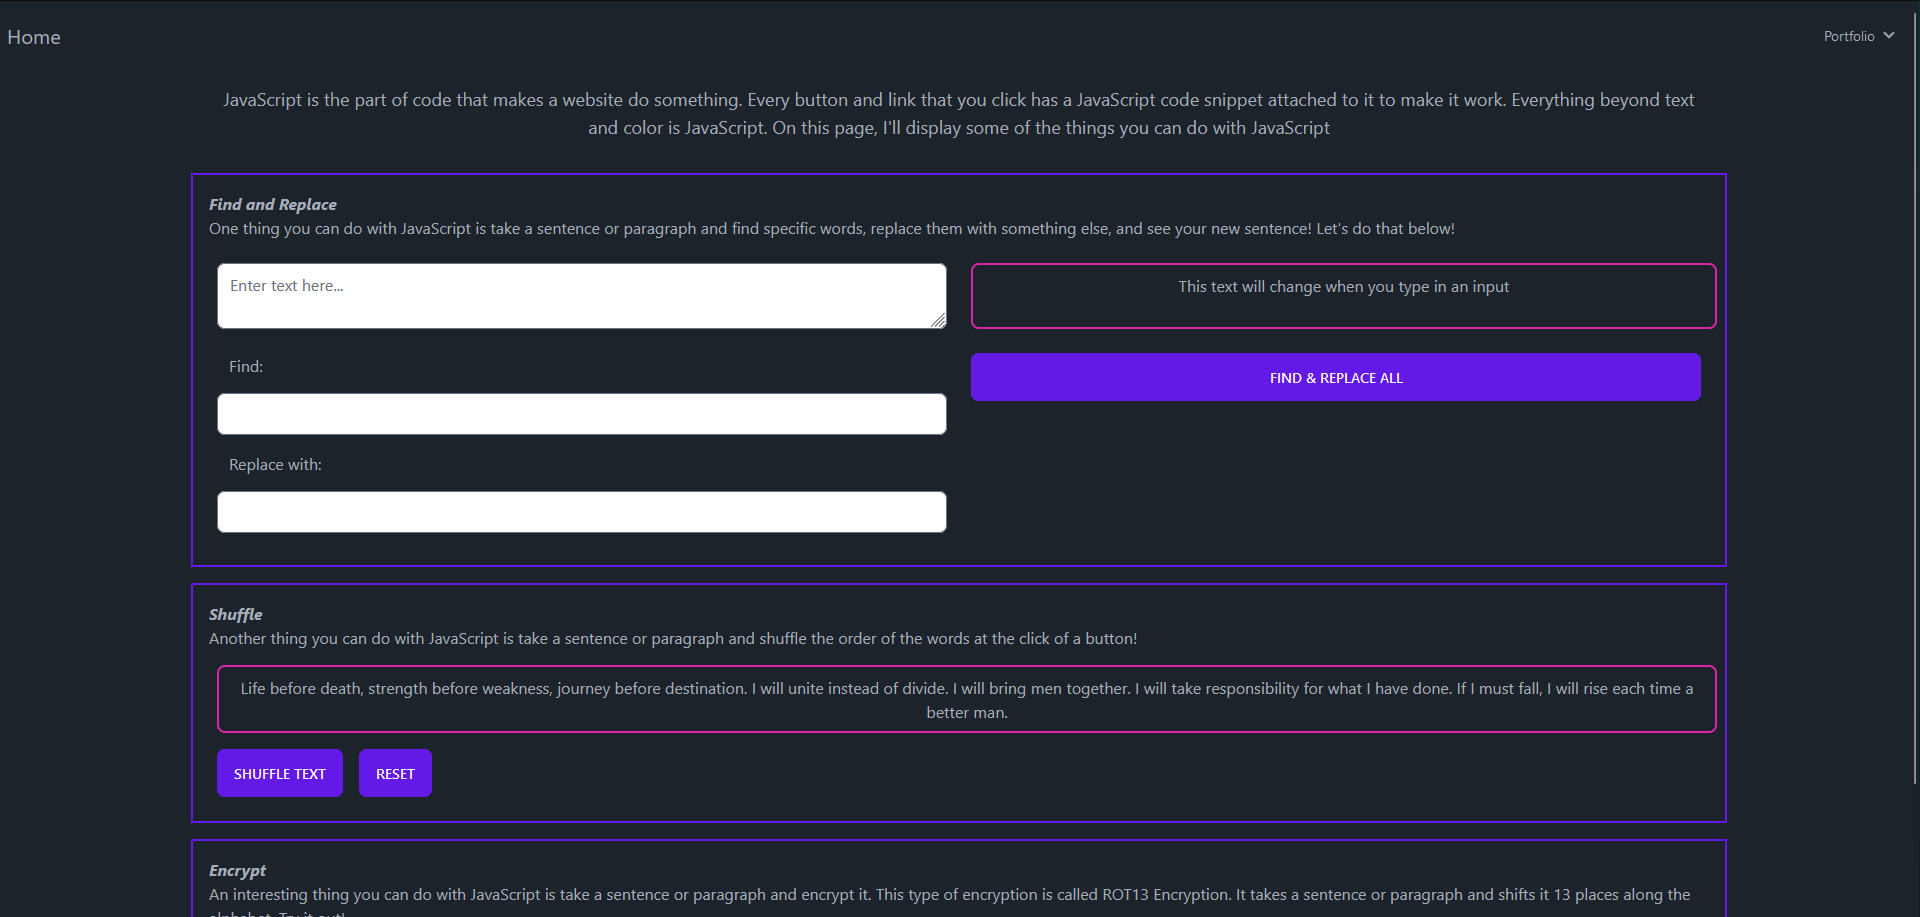
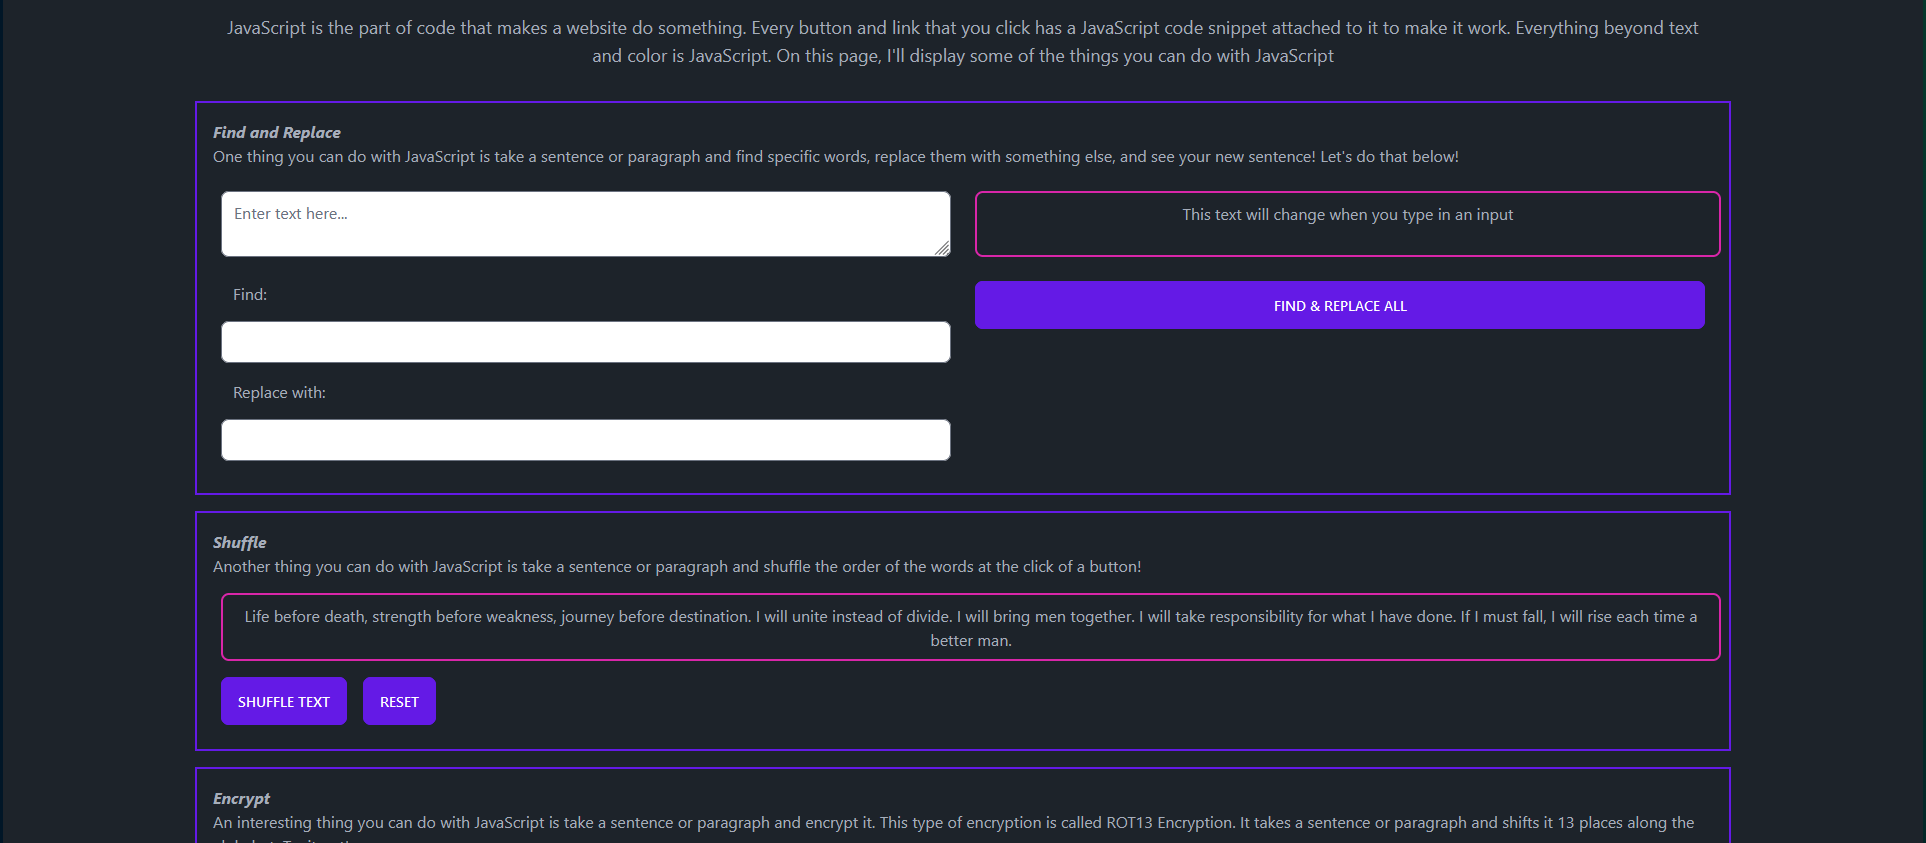
update JS-Events cover photo

diff --git a/frontend/src/app/page.tsx b/frontend/src/app/page.tsx
@@ -11,7 +11,7 @@ export default function Home() {
                          description={'A short about me website made as a class assignment at CNM Ingenuities Deep Dive Full Stack Bootcamp. It was originally made using HTML, TailwindCSS, and DaisyUI, but has been transferred over to React to be used as a portfolio piece.'}/>
             <ProjectHero image={'/construction.png'} alt={'Under Construction'} link={'/color-picker'} title={'Color Picker'} description={'A color wheel/picker web app. UNDER CONSTRUCTION'}/>
             <ProjectHero image={'/construction.png'} alt={'Under Construction'} link={'/shopping-list'} title={'Shopping List'} description={'A fully functioning shopping list web app. UNDER CONSTRUCTION'}/>
-            <ProjectHero image={'/construction.png'} alt={'Under Construction'} link={'/js-events'} title={'JavaScript Events'} description={'A web page that depicts different functions that can be created with JavaScript. UNDER CONSTRUCTION'}/>
+            <ProjectHero image={'/js-events.png'} alt={'Under Construction'} link={'/js-events'} title={'JavaScript Events'} description={'A web page that depicts different functions that can be created with JavaScript. UNDER CONSTRUCTION'}/>
             <ProjectHero image={'/construction.png'} alt={'Under Construction'} link={'/'} title={'New Projects'} description={'Any new portfolio projects I make will go here!'}/>
             {/*TODO: Make ProjectHero's for other projects I will work on. Make a brief description about the landing page*/}
         </>
